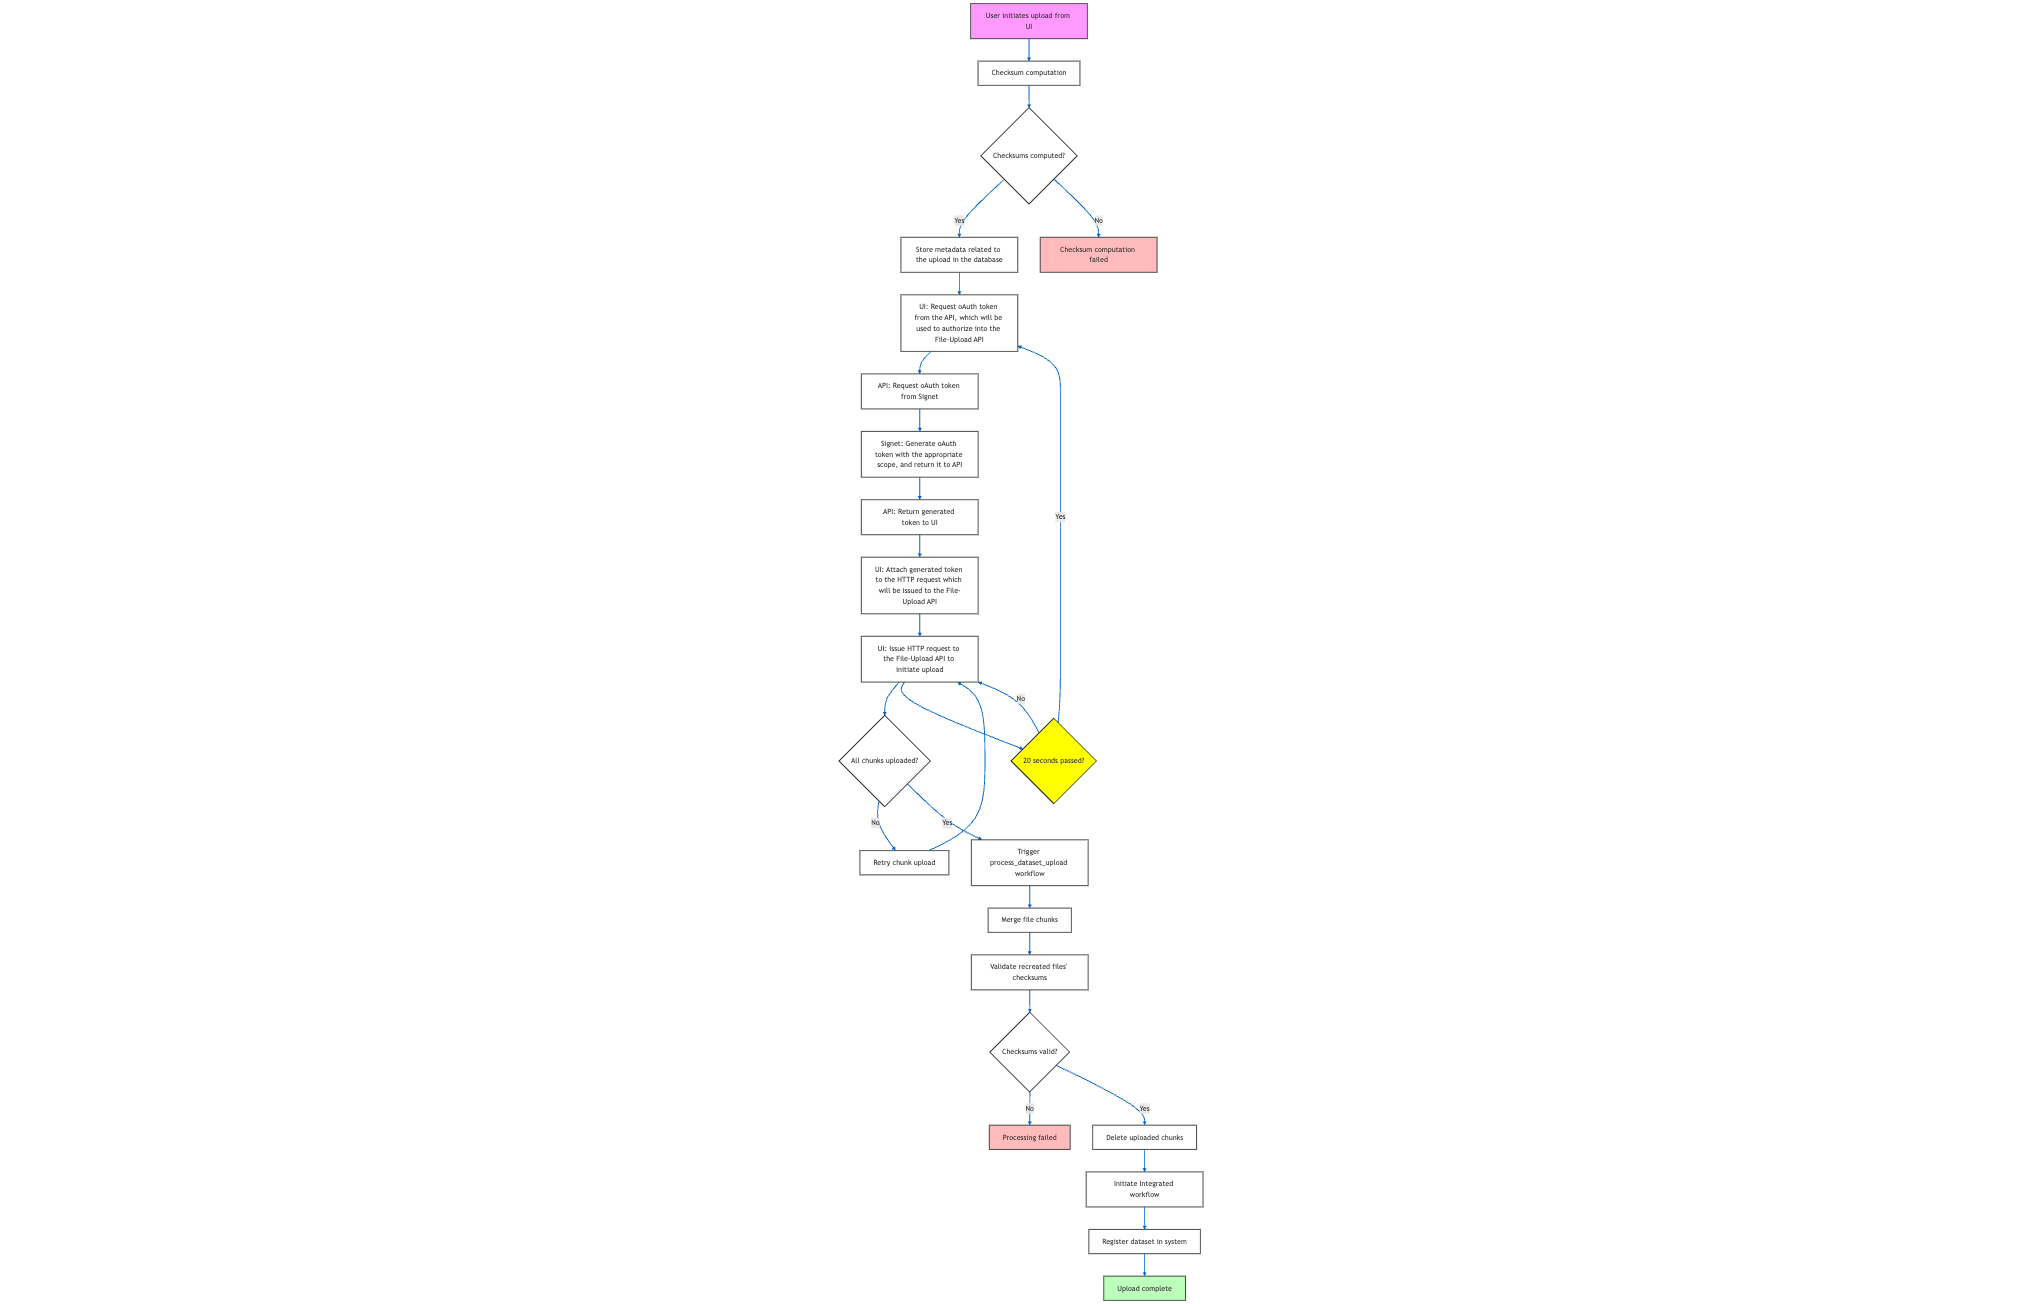
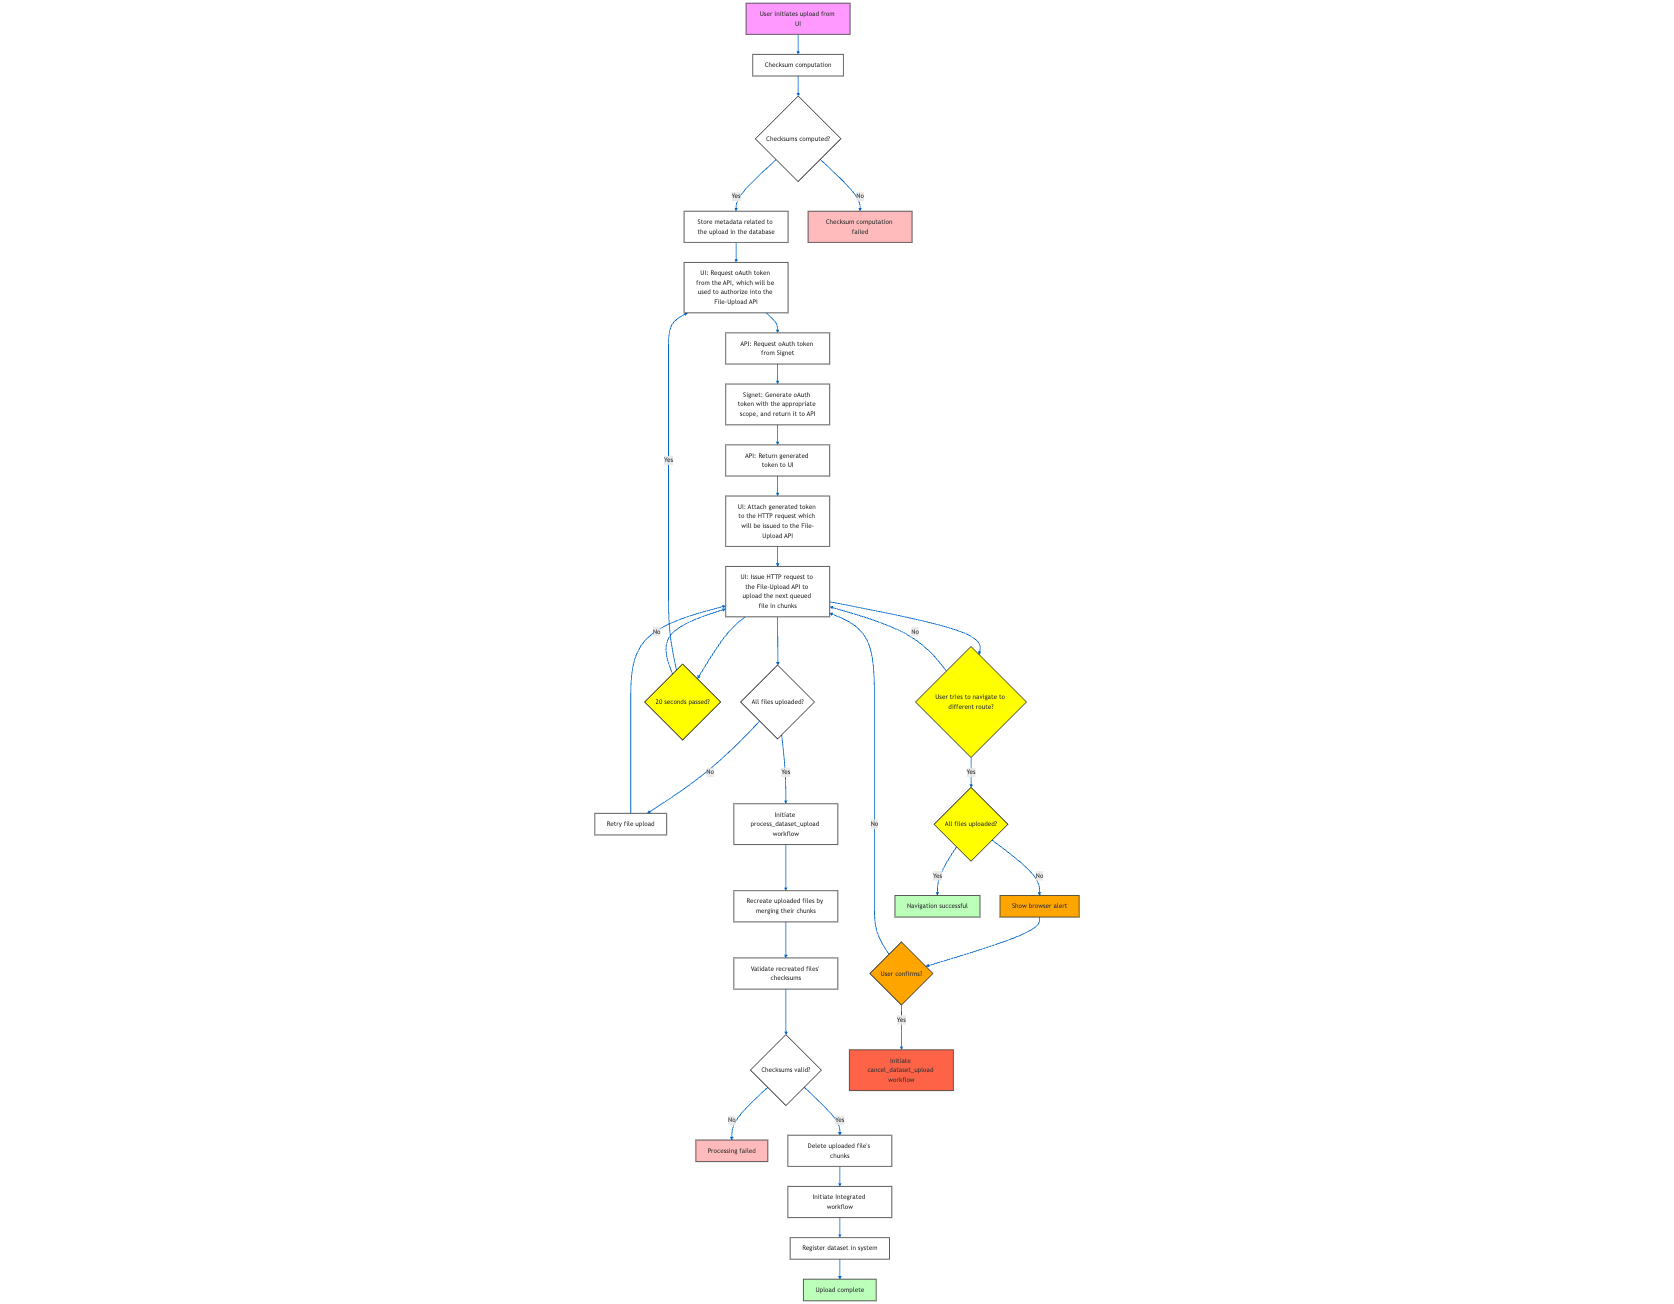
wip(upload): updated diagrams

diff --git a/docs/dataset_upload.md b/docs/dataset_upload.md
@@ -18,7 +18,7 @@ To meet the requirements outlined above, a distributed architecture is employed.
 - API: This node serves the UI as well as workers via HTTP endpoints that are specific to dataset uploads.
 - Database: Any metadata related to an upload is stored in a PostgreSQL database.
   - The contents of the uploaded files themselves are not persisted to this database.
-- Rhythm API: This node is used to trigger workflows from the UI. These workflows process the uploaded dataset.
+- Rhythm API: This node is used to initiate workflows from the UI. These workflows process the uploaded dataset.
 - Workers: Workflow tasks that process the uploaded dataset and register the uploaded dataset in the system.
 - Signet: An OAuth server that supports Client-Credentials flow. This is used to issue secure tokens which are needed for authorizing into the File-Upload API.
 - File-Upload API: A lightweight app hosted on the File-Upload Server, which writes files sent as part of an HTTP request to a filesystem.
@@ -51,7 +51,9 @@ For each upload, information is logged to the following relational tables (Postg
    - For this, the client sends an HTTP request to the File-Upload API in order to upload a file chunk, which then writes the received chunk to the File-Upload Server, after validating its checksum.
    - If a chunk upload fails, the UI retries the upload upto 5 times before failing.
    - The bearer token that is being used to call the File-Upload API is refreshed every 20 seconds
-4. After all files' chunks are uploaded successfully, the UI makes a request to the Rhythm API to trigger the `process_dataset_upload` workflow, which merges each file's uploaded chunks into the corresponding file.
+4. If the user chooses to navigate to a different route before all files have been uploaded, they see a browser alert asking to verify their choice.
+   - Upon verification, the upload is cancelled by initiating the `cancel_dataset_upload` workflow.
+5. After all files' chunks are uploaded successfully, the UI makes a request to the Rhythm API to initiate the `process_dataset_upload` workflow, which merges each file's uploaded chunks into the corresponding file.
    - This worker expects to have access to be the location where the File-Upload API uploads files to.
 
 ![Upload Steps Flowchart](./public/api/upload/steps-flowchart.png)
@@ -135,6 +137,8 @@ The status of an upload action goes through the following values:
 | PROCESSING                  | Upload currently being processed                                                                                                                                      |
 | PROCESSING_FAILED           | Encountered errors while processing a file in this upload                                                                                                             |
 | COMPLETE                    | All files in the upload processed successfully                                                                                                                        |
+
+Statuses `COMPUTING_CHECKSUMS` and `COMPUTING_CHECKSUMS` are only shown on the User Interface, and are not persisted to the database. Other statuses are persisted.
 
 ## 5. Processing
 - Uploaded file chunks are merged into the corresponding file by the `process_dataset_upload` workflow.
